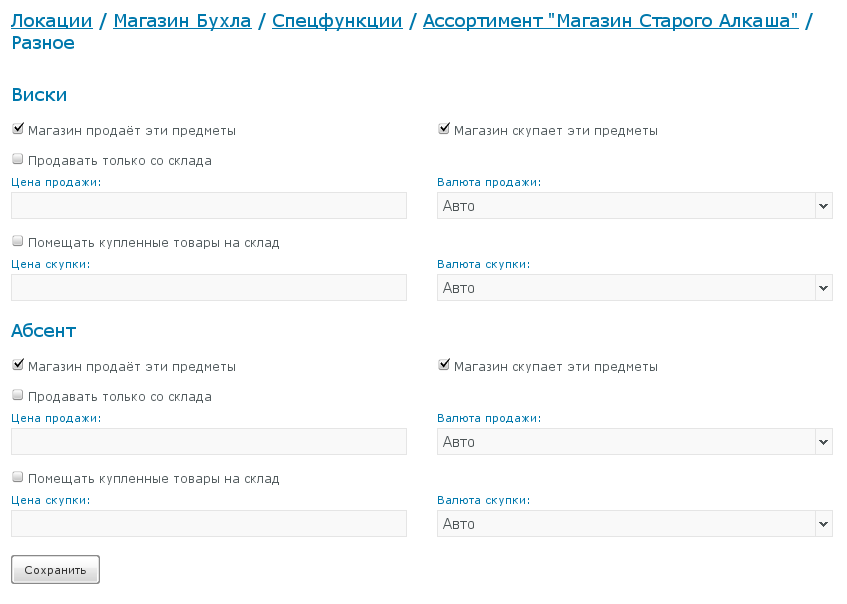
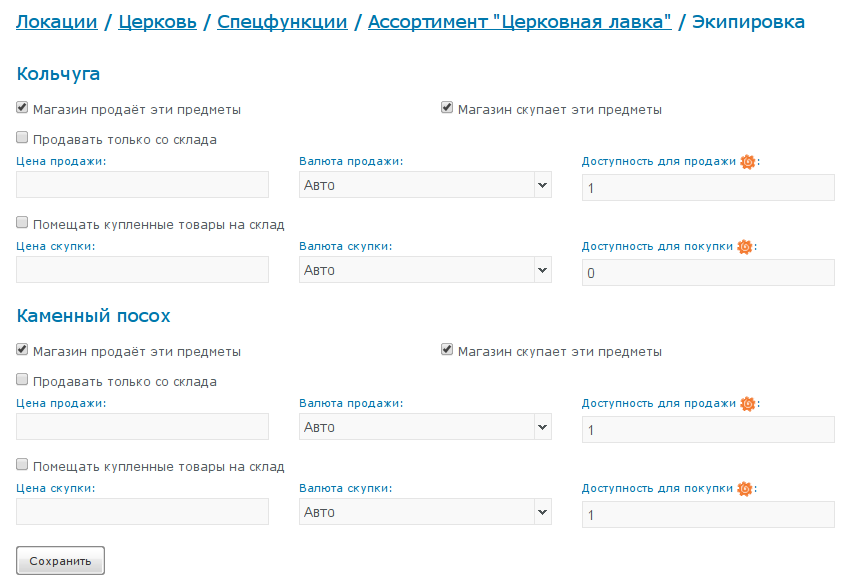
Script conditions for availability of specific goods in shops

diff --git a/mg/templates/constructor/docs/ru/shops.html b/mg/templates/constructor/docs/ru/shops.html
@@ -34,9 +34,11 @@
 <p>В полях "коррекция цены" администратор может задать выражение на <a href="/doc/script">скриптовом языке</a>, при помощи которого магазин будет рассчитывать цену товара. Более подробно этот вопрос будет рассмотрен в разделе <a href="#prices">Ценообразование</a>.</p>
 
 <p>После того, как магазин создан, в списке спецфункций локации или в списке глобальных интерфейсов появится меню управления магазином. Список товаров, которые магазин продаёт или покупает, настраивается через кнопку "ассортимент магазина": <img src="/st/tutorial/shop-8.png" alt="" class="doc-screenshot" /></p>
-<p>Напротив каждого товара администратор имеет возможность установить галочки "Магазин продаёт эти предметы" и "Магазин скупает эти предметы". Для каждого из товаров индивидуально задаются цены продажи и скупки, а также режим продажи и купли &mdash; со складом или без: <img src="/st/tutorial/shop-9.png" alt="" class="doc-screenshot" /></p>
+<p>Напротив каждого товара администратор имеет возможность установить галочки "Магазин продаёт эти предметы" и "Магазин скупает эти предметы". Для каждого из товаров индивидуально задаются цены продажи и скупки, а также режим продажи и купли &mdash; со складом или без: <img src="/st/tutorial/shop-9.png?1" alt="" class="doc-screenshot" /></p>
 
 <p>Если галочка "Помещать купленные товары на склад" не установлена, то товар, скупленный у персонажей, будет просто уничтожаться &mdash; магазин не будет хранить его. Если установлена, то товар будет складываться на собственный склад магазина. Аналогично работает галочка "Продавать только со склада". Если она снята, то магазин продаёт новый (не модифицированный) товар в неограниченном количестве, создавая его "из воздуха". Если галочка установлена, то магазин продаёт только тот товар, который есть у него на складе. Если товар на складе кончается, то продажа этого типа предметов приостановится до поступления на склад нового товара. Установка обеих галочек переводит магазин в режим замкнутого цикла. В этом режиме магазин не создаёт и не уничтожает товар, а просто выполняет функции посредника для упрощения товарообмена между персонажами.</p>
+
+<p>В полях "Доступность для продажи" и "Доступность для покупки" задаются скриптовые условия, определяющие, может ли магазин продавать данный предмет данному персонажу (либо аналогично скупать). В выражениях можно использовать переменные char (персонаж) и item (предмет, для которого определяется доступность).</p>
 
 <a name="prices"></a>
 <h1>Ценообразование в магазинах</h1>

diff --git a/mg/mmorpg/shops.py b/mg/mmorpg/shops.py
@@ -158,10 +158,12 @@ class ShopsAdmin(ConstructorModule):
             if req.ok():
                 new_assortment = assortment.copy()
                 errors = {}
+                item = self.call("admin-inventory.sample-item")
+                char = self.character(req.user())
                 for item_type in item_types:
                     uuid = item_type.uuid
                     for tp in ["sell", "buy"]:
-                        for key in ["%s-%s", "%s-store-%s", "%s-price-%s", "%s-currency-%s"]:
+                        for key in ["%s-%s", "%s-store-%s", "%s-price-%s", "%s-currency-%s", "%s-available-%s"]:
                             key2 = key % (tp, uuid)
                             if key2 in new_assortment:
                                 del new_assortment[key2]
@@ -187,6 +189,8 @@ class ShopsAdmin(ConstructorModule):
                                         new_assortment["%s-price-%s" % (tp, uuid)] = price
                                 if curr == "":
                                     errors["v_%s-currency-%s" % (tp, uuid)] = self._("Currency is not specified")
+                            key = "%s-available-%s" % (tp, uuid)
+                            new_assortment[key] = self.call("script.admin-expression", key, errors, globs={"char": char, "item": item})
                 if errors:
                     self.call("web.response_json", {"success": False, "errors": errors})
                 config = self.app().config_updater()
@@ -205,10 +209,12 @@ class ShopsAdmin(ConstructorModule):
                     fields.append({"name": "sell-store-%s" % uuid, "type": "checkbox", "checked": assortment.get("sell-store-%s" % uuid), "label": self._("Sell from the store only"), "condition": "[sell-%s]" % uuid})
                     fields.append({"name": "sell-price-%s" % uuid, "value": assortment.get("sell-price-%s" % uuid), "label": self._("Sell price"), "condition": "[sell-%s]" % uuid})
                     fields.append({"name": "sell-currency-%s" % uuid, "value": assortment.get("sell-currency-%s" % uuid), "label": self._("Sell currency"), "type": "combo", "values": currencies_list, "inline": True, "condition": "[sell-%s]" % uuid})
+                    fields.append({"name": "sell-available-%s" % uuid, "value": self.call("script.unparse-expression", assortment.get("sell-available-%s" % uuid, 1)), "label": self._("Availability for sell") + self.call("script.help-icon-expressions"), "condition": "[sell-%s]" % uuid, "inline": True})
                 if func.get("shop_buy"):
                     fields.append({"name": "buy-store-%s" % uuid, "type": "checkbox", "checked": assortment.get("buy-store-%s" % uuid), "label": self._("Put bought items to the store"), "condition": "[buy-%s]" % uuid})
                     fields.append({"name": "buy-price-%s" % uuid, "value": assortment.get("buy-price-%s" % uuid), "label": self._("Buy price"), "condition": "[buy-%s]" % uuid})
                     fields.append({"name": "buy-currency-%s" % uuid, "value": assortment.get("buy-currency-%s" % uuid), "label": self._("Buy currency"), "type": "combo", "values": currencies_list, "inline": True, "condition": "[buy-%s]" % uuid})
+                    fields.append({"name": "buy-available-%s" % uuid, "value": self.call("script.unparse-expression", assortment.get("buy-available-%s" % uuid, 1)), "label": self._("Availability for buy") + self.call("script.help-icon-expressions"), "condition": "[buy-%s]" % uuid, "inline": True})
             self.call("admin.advice", {"title": self._("Shop prices"), "content": self._("If a price is not specified balance price will be used. If currency is specified but price not then the balance price will be converted to the currency given")})
             self.call("admin.form", fields=fields)
         rows = []
@@ -539,12 +545,16 @@ class Shops(ConstructorModule):
                     cat = misc
                 if cat is None:
                     continue
+                # item availability
+                available = assortment.get("%s-available-%s" % (mode, item_type.uuid), 1)
+                if not self.call("script.evaluate-expression", available, globs={"char": character, "item": item_type}, description=lambda: self._("Evaluation of availability of item %s") % item_type.name):
+                    continue
                 # item price
                 price = assortment.get("%s-price-%s" % (mode, item_type.uuid))
                 if price is None:
                     price = item_type.get("balance-price")
                     balance_currency = item_type.get("balance-currency")
-                    # items without balance price and without shop price are ignores
+                    # items without balance price and without shop price are ignored
                     if price is None:
                         continue
                     currency = assortment.get("%s-currency-%s" % (mode, item_type.uuid), balance_currency)
